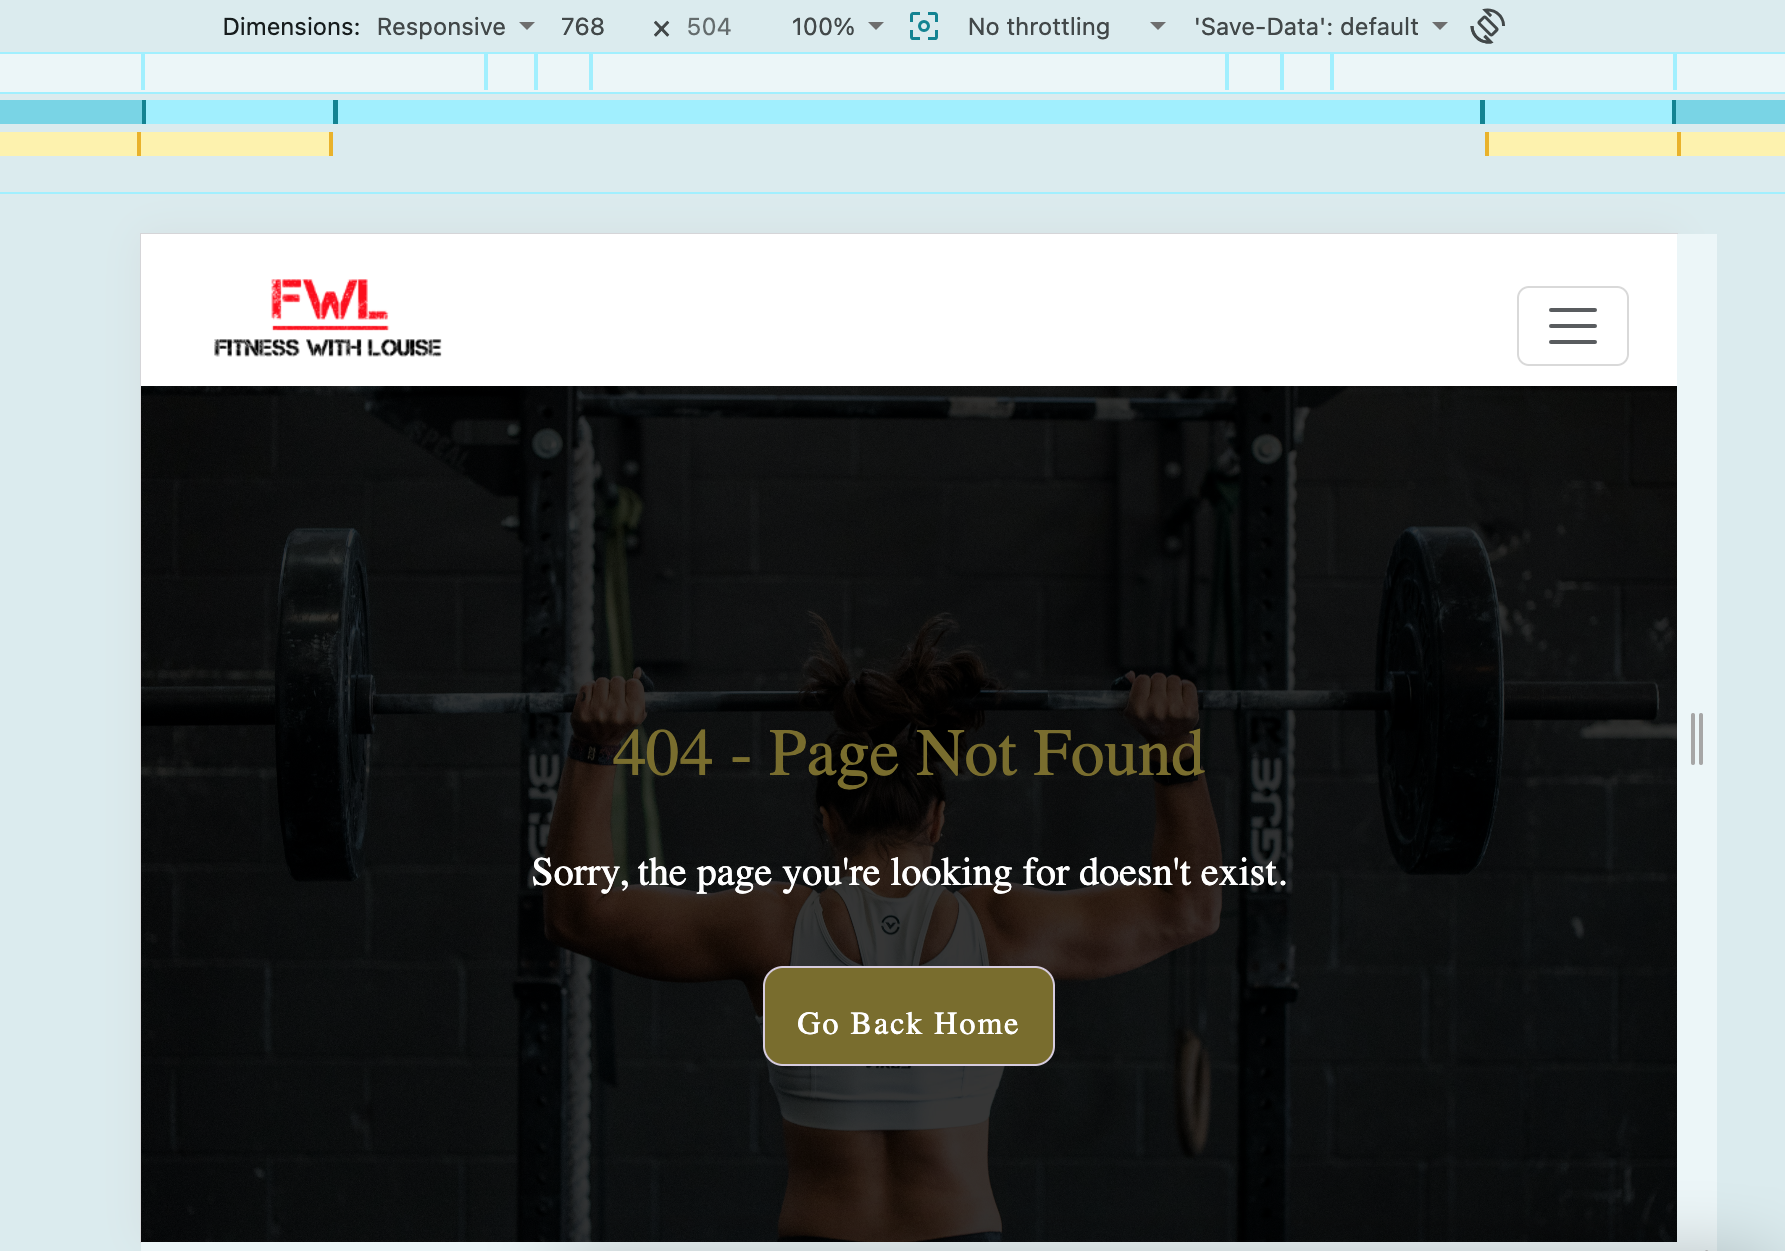
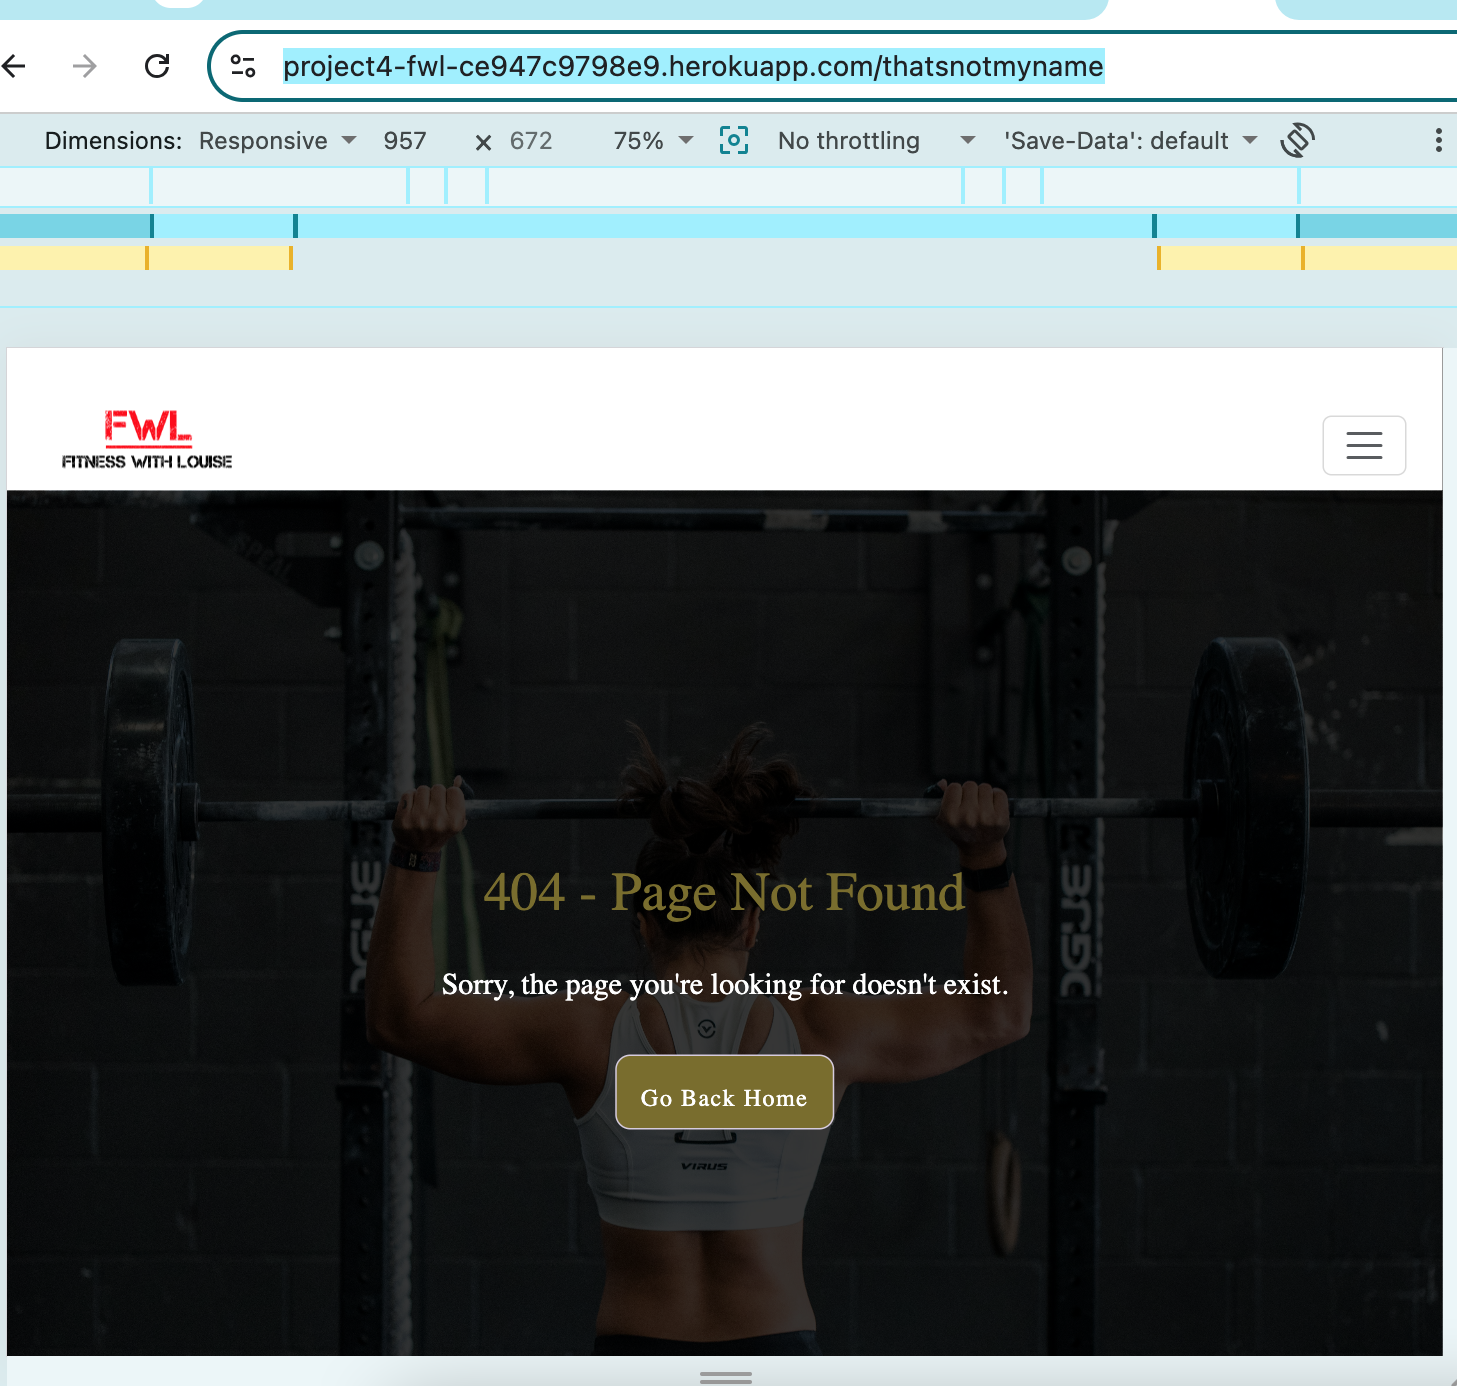
Add screenshot to support responsive layout for laptop screensize

diff --git a/TESTING.md b/TESTING.md
@@ -111,18 +111,18 @@ Particular attention was given to:
 
 | Page | Mobile | Tablet | Laptop | Desktop |
 | --- | --- | --- | --- | --- |
-| Home | ![screenshot](documentation/testing/responsiveness/mobile-home.PNG) | ![screenshot](documentation/testing/responsiveness/tablet-home1.png) <br>  ![screenshot](documentation/testing/responsiveness/tablet-home2.png) | ![screenshot](documentation/responsiveness/laptop/home.png) | ![screenshot](documentation/responsiveness/desktop/home.png) |
+| Home | ![screenshot](documentation/testing/responsiveness/mobile-home.PNG) | ![screenshot](documentation/testing/responsiveness/tablet-home1.png) <br>  ![screenshot](documentation/testing/responsiveness/tablet-home2.png) | ![screenshot](documentation/testing/responsiveness/laptop-home1.png) <br> ![screenshot](documentation/testing/responsiveness/laptop-home2.png) | ![screenshot](documentation/responsiveness/desktop/home.png) |
 | Products | **General user**![screenshot](documentation/testing/responsiveness/mobile-products.png) <br> **Super user** ![screenshot](documentation/testing/responsiveness/mobile-products-superuser.PNG) | **General user**![screenshot](documentation/testing/responsiveness/tablet-products1.png) <br> ![screenshot](documentation/testing/responsiveness/tablet-products2.png)<br> **Super user**![screenshot](documentation/testing/responsiveness/tablet-products-superurer.png)| ![screenshot](documentation/responsiveness/laptop/products.png) | ![screenshot](documentation/responsiveness/desktop/products.png) |
-| Product Details | ![screenshot](documentation/testing/responsiveness/mobile-product-details.PNG) | ![screenshot](documentation/testing/responsiveness/tablet-product-details1.png) <br> ![screenshot](documentation/testing/responsiveness/tablet-product-details2.png) | ![screenshot](documentation/responsiveness/laptop/product-detail.png) | ![screenshot](documentation/responsiveness/desktop/product-detail.png) |
-| Cart | ![screenshot](documentation/testing/responsiveness/mobile-cart1.PNG) <br> ![screenshot](documentation/testing/responsiveness/mobile-cart2.PNG) | ![screenshot](documentation/testing/responsiveness/tablet-cart.png) <br> ![screenshot](documentation/responsiveness/tablet/cart.png) | ![screenshot](documentation/responsiveness/laptop/cart.png) | ![screenshot](documentation/responsiveness/desktop/cart.png) |
+| Product Details | ![screenshot](documentation/testing/responsiveness/mobile-product-details.PNG) | ![screenshot](documentation/testing/responsiveness/tablet-product-details1.png) <br> ![screenshot](documentation/testing/responsiveness/tablet-product-details2.png) | ![screenshot](documentation/testing/responsiveness/laptop-product-details.png) | ![screenshot](documentation/responsiveness/desktop/product-detail.png) |
+| Cart | ![screenshot](documentation/testing/responsiveness/mobile-cart1.PNG) <br> ![screenshot](documentation/testing/responsiveness/mobile-cart2.PNG) | ![screenshot](documentation/testing/responsiveness/tablet-cart.png) | ![screenshot](documentation/responsiveness/laptop/cart.png) | ![screenshot](documentation/responsiveness/desktop/cart.png) |
 | Checkout | ![screenshot](documentation/testing/responsiveness/mobile-checkout1.PNG) <br> ![screenshot](documentation/testing/responsiveness/mobile-checkout2.PNG) | ![screenshot](documentation/testing/responsiveness/tablet-checkout1.png) <br> ![screenshot](documentation/testing/responsiveness/tablet-checkout3.png) <br> ![screenshot](documentation/testing/responsiveness/tablet-checkout3.png) | ![screenshot](documentation/responsiveness/laptop/checkout.png) | ![screenshot](documentation/responsiveness/desktop/checkout.png) |
-| Class Timetable | ![screenshot](documentation/testing/responsiveness/mobile-classes.PNG) | ![screenshot](documentation/testing/responsiveness/tablet-classes.png) | ![screenshot](documentation/responsiveness/laptop/timetable.png) | ![screenshot](documentation/responsiveness/desktop/timetable.png) |
-| Subscription Plans | ![screenshot](documentation/testing/responsiveness/mobile-subscriptions.PNG) | ![screenshot](documentation/testing/responsiveness/tablet-subscriptions.png) | ![screenshot](documentation/responsiveness/laptop/subscriptions.png) | ![screenshot](documentation/responsiveness/desktop/subscriptions.png) |
+| Class Timetable | ![screenshot](documentation/testing/responsiveness/mobile-classes.PNG) | ![screenshot](documentation/testing/responsiveness/tablet-classes.png) | ![screenshot](documentation/testing/responsiveness/laptop-classes.png) | ![screenshot](documentation/responsiveness/desktop/timetable.png) |
+| Subscription Plans | ![screenshot](documentation/testing/responsiveness/mobile-subscriptions.PNG) | ![screenshot](documentation/testing/responsiveness/tablet-subscriptions.png) | ![screenshot](documentation/testing/responsiveness/laptop-subscriptions.png) | ![screenshot](documentation/responsiveness/desktop/subscriptions.png) |
 | Profile | ![screenshot](documentation/testing/responsiveness/mobile-profile1.PNG) <br> ![screenshot](documentation/testing/responsiveness/mobile-profile2.PNG) <br> ![screenshot](documentation/testing/responsiveness/mobile-profile3.PNG) | ![screenshot](documentation/testing/responsiveness/tablet-profile1.png) <br> ![screenshot](documentation/testing/responsiveness/tablet-profile2.png)| ![screenshot](documentation/responsiveness/laptop/profile.png) | ![screenshot](documentation/responsiveness/desktop/profile.png) |
-|Nutrition|![screenshot](mobile)|![screenshot](documentation/testing/responsiveness/tablet-nutrition.png) <br> ![screenshot](documentation/testing/responsiveness/tablet-nutrition2.png) <br> ![screenshot](documentation/testing/responsiveness/tablet-nutrition3.png) <br> ![screenshot](documentation/testing/responsiveness/tablet-nutrition4.png)|![screenshot](laptop)|![screenshot](desktop)|
-| Login | ![screenshot](documentation/testing/responsiveness/mobile-login.PNG) | ![screenshot](documentation/testing/responsiveness/tablet-login.png) | ![screenshot](documentation/responsiveness/laptop/login.png) | ![screenshot](documentation/responsiveness/desktop/login.png) |
-| Sign Up | ![screenshot](documentation/testing/responsiveness/mobile-create-account.PNG) | ![screenshot](documentation/testing/responsiveness/tablet-create1.png) <br> ![screenshot](documentation/testing/responsiveness/tablet-create2.png) | ![screenshot](documentation/responsiveness/laptop/signup.png) | ![screenshot](documentation/responsiveness/desktop/signup.png) |
-| 404 | ![screenshot](documentation/testing/responsiveness/mobile-404.png) | ![screenshot](documentation/testing/responsiveness/tablet-404.png) | ![screenshot](documentation/responsiveness/laptop/404.png) | ![screenshot](documentation/responsiveness/desktop/404.png) |
+|Nutrition|![screenshot](documentation/testing/responsiveness/mobile-nutrition.PNG)|![screenshot](documentation/testing/responsiveness/tablet-nutrition.png) <br> ![screenshot](documentation/testing/responsiveness/tablet-nutrition2.png) <br> ![screenshot](documentation/testing/responsiveness/tablet-nutrition3.png) <br> ![screenshot](documentation/testing/responsiveness/tablet-nutrition4.png)|![screenshot](documentation/testing/responsiveness/laptop-nutrition21.png) <br> ![screenshot](documentation/testing/responsiveness/laptop-nutrition2.png)|![screenshot](desktop)|
+| Login | ![screenshot](documentation/testing/responsiveness/mobile-login.PNG) | ![screenshot](documentation/testing/responsiveness/tablet-login.png) | ![screenshot](documentation/testing/responsiveness/laptop-login.png) | ![screenshot](documentation/responsiveness/desktop/login.png) |
+| Sign Up | ![screenshot](documentation/testing/responsiveness/mobile-create-account.PNG) | ![screenshot](documentation/testing/responsiveness/tablet-create1.png) <br> ![screenshot](documentation/testing/responsiveness/tablet-create2.png) | ![screenshot](documentation/testing/responsiveness/laptop-signup.png) | ![screenshot](documentation/responsiveness/desktop/signup.png) |
+| 404 | ![screenshot](documentation/testing/responsiveness/mobile-404.png) | ![screenshot](documentation/testing/responsiveness/tablet-404.png) | ![screenshot](documentation/testing/responsiveness/laptop-404.png) | ![screenshot](documentation/responsiveness/desktop/404.png) |
 
 ## Testing Summaries
 